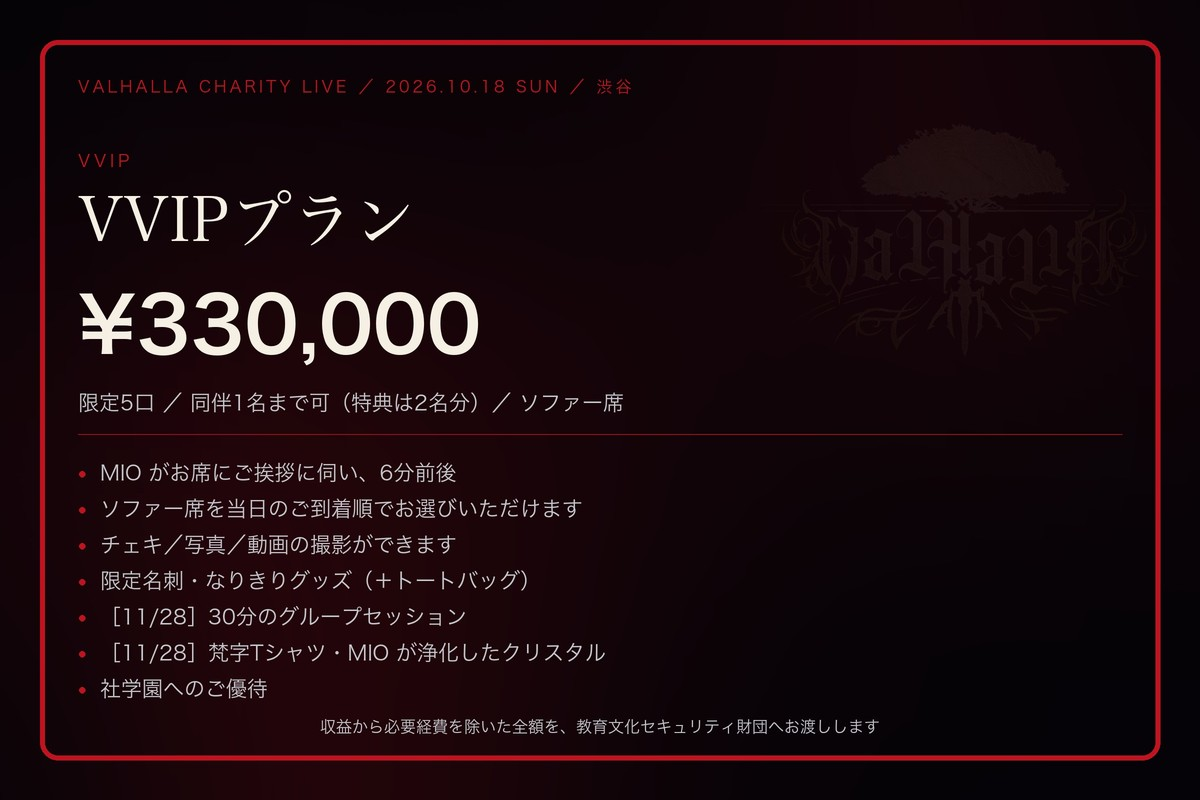
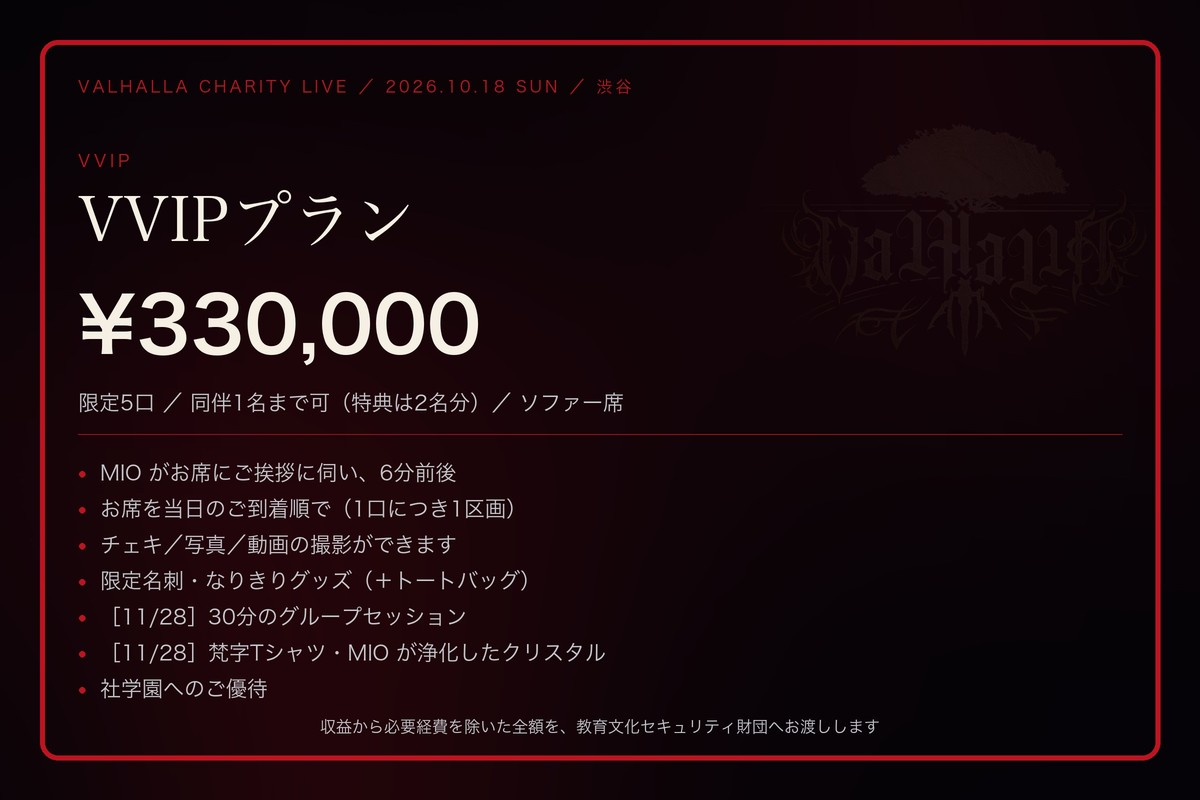
charity: the 150,000 tier is gone, so every seat belongs to VVIP now
The floor plan still split the room the way it was split when there were two
seated tiers: four gold zones for VVIP, eight red ones for the 150,000 course
that no longer exists — and those eight were captioned as the standing course,
which would have sent 10,000-yen supporters looking for a chair.

All twelve zones are VVIP's to choose from, one per 口. With five 口 across
twelve zones nobody shares, so the 相席 warning is not just unnecessary, it
undersells what the tier now is; replace it everywhere it was promised.

Changed region(s): [[0.0617, 0.625, 0.4933, 0.6562]]

diff --git a/assets/charity/create_floor_banner.py b/assets/charity/create_floor_banner.py
@@ -8,10 +8,11 @@
 会場の図面そのものは動かさない。上に色と凡例を重ねるだけなので、
 実際の配置と食い違わない。
 
-区画の対応（docs/campfire-project-body.md より）:
-    VVIP席  … DJ1・DJ2・V4・V1
-    VIP席     … V2・V3・V5・V6・S1〜S4
-    中央    … ステージとスタンディング
+区画の対応（2026-09-20 更新。15万円のコースが無くなり、席は VVIP に一本化）:
+    お席（12区画） … DJ1・DJ2・V1〜V6・S1〜S4 ── すべて VVIP が選べる
+    最前列エリア     … VIPプラン（スタンディング）
+    ライブエリア     … ライブプラン（スタンディング）
+    1口につき1区画。ほかのお客様と同じ区画にはならない。
 """
 from __future__ import annotations
 
@@ -38,8 +39,8 @@ ZONES = {
     "S4": (160, 782), "S3": (333, 910), "S1": (1105, 795), "S2": (1000, 925),
     "BAR": (663, 993), "FRONT": (663, 585), "FLOOR": (663, 790),
 }
-VVIP = ("DJ1", "DJ2", "V4", "V1")
-SSEAT = ("V2", "V3", "V5", "V6", "S1", "S2", "S3", "S4")
+# 15万円のコースが無くなったので、席は全部 VVIP が選べる
+VVIP = ("DJ1", "DJ2", "V4", "V1", "V2", "V3", "V5", "V6", "S1", "S2", "S3", "S4")
 
 # 会場図の地が赤紫〜マゼンタなので、そこに近い色は沈む。
 # 金は明るい琥珀へ、青は水色寄りへ振って、地から離す
@@ -134,11 +135,9 @@ def build(out: Path) -> None:
         px, py = ZONES[name]
         return ((ox + px * k) / SCALE, (oy + py * k) / SCALE)
 
-    # 区画に印を打つ。VVIP は金、VIP席は青
+    # 席の区画はすべて金。どれを選んでも VVIP の席という意味になる
     for name in VVIP:
-        zone_mark(img, at(name), 34, GOLD, 3.8)
-    for name in SSEAT:
-        zone_mark(img, at(name), 27, SEAT_RED, 3.2)
+        zone_mark(img, at(name), 30, GOLD, 3.6)
     d = ImageDraw.Draw(img)
 
     # ステージのすぐ手前が最前列。丸ではなく楕円で、前方だけを囲う
@@ -159,17 +158,17 @@ def build(out: Path) -> None:
 
     # その後ろがライブ席（スタンディング）
     bx, by_ = at("FLOOR")
-    centered(d, bx, by_ - 12, "ライブエリア", face(SANS_B, 21), (214, 170, 176))
+    centered(d, bx, by_ - 12, "ライブエリア", face(SANS_B, 21), SEAT_RED)
     centered(d, bx, by_ + 16, "スタンディング", face(SANS, 16), ASH)
 
     # 右側の凡例
     x = 900
     y = 176
     rows = [
-        (GOLD, "VVIPプラン", "ソファー席（図の金色の4区画）から、当日のご到着順でお選びいただけます"),
+        (GOLD, "VVIPプラン", "図の金色の12区画から、当日のご到着順で1区画をお選びいただけます"),
         (FRONT_BLUE, "VIPプラン", "ステージ前の最前列エリア（青の楕円）で立ってご覧いただきます"),
         (FRONT_BLUE, "VIPチェキタイム", "18:15〜 ステージ前でチェキ＋ハイタッチ（VIPプランの方）"),
-        (SEAT_RED, "ライブプラン", "赤丸の区画と、その間の中央フロアでご覧いただきます"),
+        (SEAT_RED, "ライブプラン", "中央のライブエリア（スタンディング）でご覧いただきます"),
     ]
     for color, title, sub in rows:
         if color:
@@ -180,11 +179,11 @@ def build(out: Path) -> None:
         y += 106
 
     y += 16
-    d.text(spos((x, y)), "お席はすべて相席です", font=face(SANS_B, 24), fill=CREAM)
+    d.text(spos((x, y)), "1口につき、1区画", font=face(SANS_B, 24), fill=CREAM)
     for i, line in enumerate([
-            "5口を4区画でご案内するため、着席のコース",
-            "（VVIPプラン）はグループごとの個室・貸切では",
-            "ありません。ほかのお客様と同じ区画になります。"]):
+            "お席のご用意は VVIPプランのみです。1口につき",
+            "1区画をお使いいただけます。ほかのお客様と",
+            "同じ区画になることはありません。"]):
         d.text(spos((x, y + 40 + i * 32)), line, font=face(SANS, 19), fill=SILVER)
 
     y += 156

diff --git a/assets/charity/create_reward_cards.py b/assets/charity/create_reward_cards.py
@@ -101,7 +101,7 @@ CARDS = [
     ("reward_vvip.jpg", "VVIP", "VVIPプラン", "¥330,000",
      "限定5口 ／ 同伴1名まで可（特典は2名分）／ ソファー席",
      ("MIO がお席にご挨拶に伺い、6分前後",
-      "ソファー席を当日のご到着順でお選びいただけます",
+      "お席を当日のご到着順で（1口につき1区画）",
       "チェキ／写真／動画の撮影ができます",
       "限定名刺・なりきりグッズ（＋トートバッグ）",
       "［11/28］30分のグループセッション",
